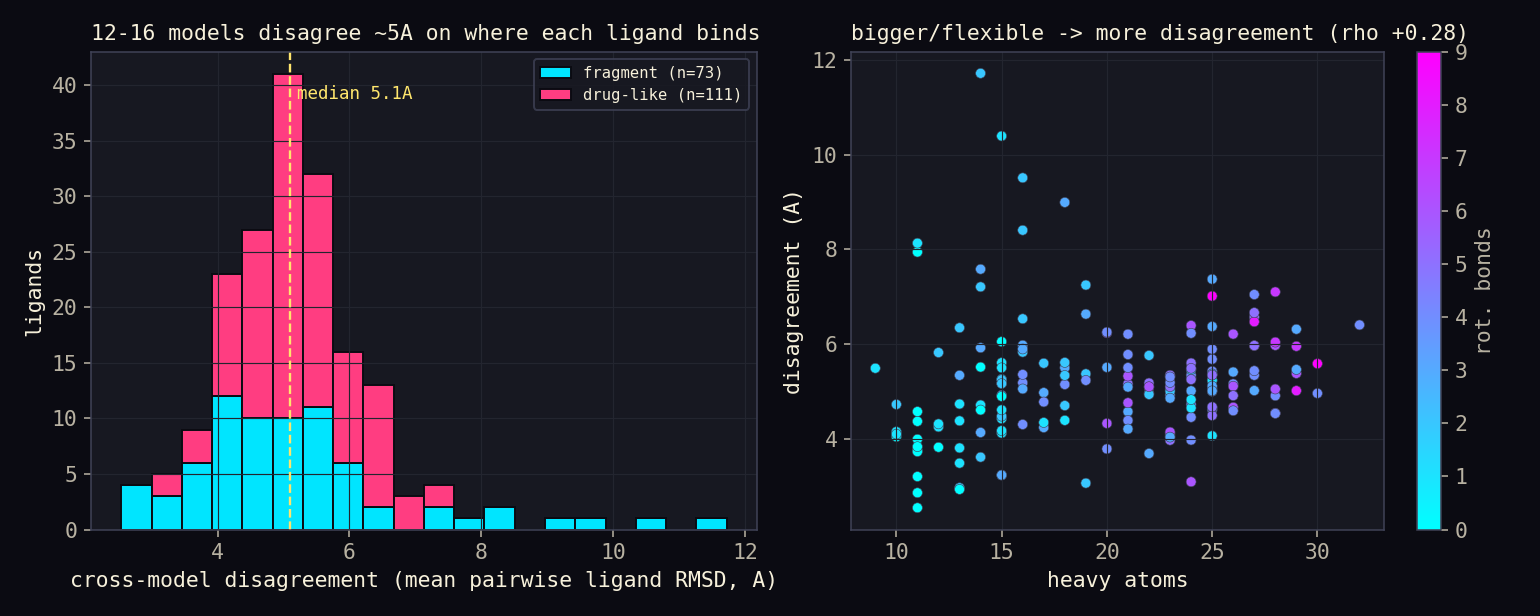
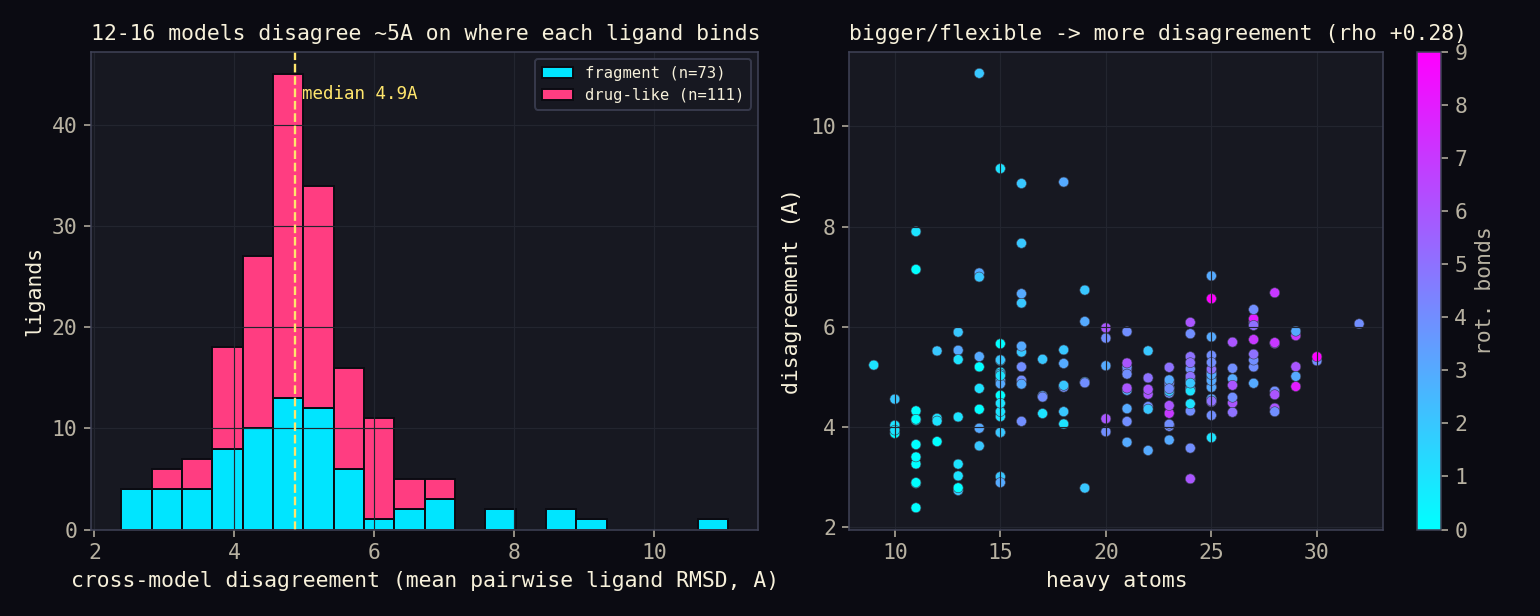
posthoc: fix ligand parsing (protenix/rf3 recovered, minifold dropped, NaN bug); add per-model architecture-clustering finding + consensus!=correctness caveat

diff --git a/docs/posthoc_analysis.html b/docs/posthoc_analysis.html
@@ -626,10 +626,10 @@ analysis uses <b>cross-model geometric consensus</b>; where true poses exist (th
 PXR crystal panel) we measure real RMSD and the selection gap.</p>
 <h3>Three findings up front</h3>
 <p><span class="step-number">1</span> <b>The models fundamentally disagree.</b> Median
-cross-model pose disagreement is <b>5.1 A</b> (mean pairwise
+cross-model pose disagreement is <b>4.9 A</b> (mean pairwise
 ligand RMSD across predictors). On most ligands there is no consensus binding mode.</p>
 <p><span class="step-number">2</span> <b>Failure is anchoring ambiguity, not size alone.</b>
-Disagreement scales with size/flexibility (heavy-atom rho +0.28), but the very
+Disagreement scales with size/flexibility (heavy-atom rho +0.26), but the very
 worst cases are <b>small fragments with no directional anchor</b> - fragments split bimodally
 into best- and worst-agreed. Rigid H-bond anchors (aminothiazole, benzimidazole) sharpen
 agreement; floppy multi-donor groups (urea, amide) blur it.</p>
@@ -643,16 +643,27 @@ is broken.</p>
 <h2>12-16 models, ~5A apart</h2>
 <p>For each ligand we superpose every predictor's protein CA onto a common frame and measure
 pairwise ligand RMSD. The median across 184 ligands is
-<b>5.10 A</b> (IQR 4.47-5.60).
-Fragments (4.92 A) and drug-like analogs (5.16 A) disagree <i>almost equally</i> -
+<b>4.87 A</b> (IQR 4.30-5.36).
+Fragments (4.79 A) and drug-like analogs (4.88 A) disagree <i>almost equally</i> -
 the tidy "analogs are harder" story does not hold; disagreement tracks size and anchoring, not
 fragment-vs-analog class.</p>
 <figure><img src="figures/posthoc_disagreement.png" alt="cross-model disagreement"></figure>
 <h3>The 12 most-disagreed ligands (where every model diverges)</h3>
-<table><thead><tr><th>ligand</th><th>pop</th><th>series</th><th>MW</th><th>rotB</th><th>disagree A</th><th>consensus</th><th>medoid</th></tr></thead><tbody><tr><td>x00543-1</td><td>fragment</td><td>FR127</td><td>215</td><td>2</td><td>11.7</td><td>0.29</td><td>esm2_none</td></tr><tr><td>x01382-1</td><td>fragment</td><td>FR90</td><td>225</td><td>1</td><td>10.4</td><td>0.15</td><td>esm2_none</td></tr><tr><td>x01358-1</td><td>fragment</td><td>FR92</td><td>212</td><td>2</td><td>9.5</td><td>0.15</td><td>esm2_none</td></tr><tr><td>x01438-1</td><td>fragment</td><td>FR86</td><td>243</td><td>3</td><td>9.0</td><td>0.15</td><td>esmfold2fast</td></tr><tr><td>x01334-1</td><td>fragment</td><td>FR93</td><td>213</td><td>2</td><td>8.4</td><td>0.15</td><td>apo</td></tr><tr><td>x01131-1</td><td>fragment</td><td>FR101</td><td>175</td><td>1</td><td>8.1</td><td>0.14</td><td>boltz1x</td></tr><tr><td>x01126-1</td><td>fragment</td><td>FR79</td><td>164</td><td>0</td><td>7.9</td><td>0.21</td><td>of3ft</td></tr><tr><td>x01415-1</td><td>fragment</td><td>FR87</td><td>217</td><td>3</td><td>7.6</td><td>0.08</td><td>apo</td></tr><tr><td>x02877-1</td><td>drug_like</td><td>DL17</td><td>342</td><td>3</td><td>7.4</td><td>0.14</td><td>apo</td></tr><tr><td>x01234-1</td><td>drug_like</td><td>DL74</td><td>253</td><td>2</td><td>7.2</td><td>0.15</td><td>esm2_shallow</td></tr><tr><td>x01502-1</td><td>fragment</td><td>FR84</td><td>204</td><td>2</td><td>7.2</td><td>0.15</td><td>of3ft</td></tr><tr><td>x03123-1</td><td>drug_like</td><td>DL42</td><td>402</td><td>7</td><td>7.1</td><td>0.21</td><td>esm2_none</td></tr></tbody></table>
+<table><thead><tr><th>ligand</th><th>pop</th><th>series</th><th>MW</th><th>rotB</th><th>disagree A</th><th>consensus</th><th>medoid</th></tr></thead><tbody><tr><td>x00543-1</td><td>fragment</td><td>FR127</td><td>215</td><td>2</td><td>11.1</td><td>0.31</td><td>esm2_none</td></tr><tr><td>x01382-1</td><td>fragment</td><td>FR90</td><td>225</td><td>1</td><td>9.2</td><td>0.25</td><td>esm2_none</td></tr><tr><td>x01438-1</td><td>fragment</td><td>FR86</td><td>243</td><td>3</td><td>8.9</td><td>0.17</td><td>esm2_full</td></tr><tr><td>x01358-1</td><td>fragment</td><td>FR92</td><td>212</td><td>2</td><td>8.9</td><td>0.17</td><td>rf3</td></tr><tr><td>x01131-1</td><td>fragment</td><td>FR101</td><td>175</td><td>1</td><td>7.9</td><td>0.15</td><td>boltz1x</td></tr><tr><td>x01334-1</td><td>fragment</td><td>FR93</td><td>213</td><td>2</td><td>7.7</td><td>0.25</td><td>apo</td></tr><tr><td>x01126-1</td><td>fragment</td><td>FR79</td><td>164</td><td>0</td><td>7.1</td><td>0.39</td><td>of3ft</td></tr><tr><td>x01415-1</td><td>fragment</td><td>FR87</td><td>217</td><td>3</td><td>7.1</td><td>0.08</td><td>boltz1x</td></tr><tr><td>x02877-1</td><td>drug_like</td><td>DL17</td><td>342</td><td>3</td><td>7.0</td><td>0.23</td><td>esm2_none</td></tr><tr><td>x01502-1</td><td>fragment</td><td>FR84</td><td>204</td><td>2</td><td>7.0</td><td>0.17</td><td>of3ft</td></tr><tr><td>x01234-1</td><td>drug_like</td><td>DL74</td><td>253</td><td>2</td><td>6.7</td><td>0.25</td><td>esm2_shallow</td></tr><tr><td>x03123-1</td><td>drug_like</td><td>DL42</td><td>402</td><td>7</td><td>6.7</td><td>0.23</td><td>esm2_none</td></tr></tbody></table>
 <p class="muted">Note the worst offenders are mostly small fragments (MW 160-250) - too few
 contacts to pin a pose. The consensus "medoid" model is rarely Boltz; it is usually an
 ESM2 / OpenFold3 / apo-template prediction.</p>
+<h3>Models cluster by architecture, not by truth</h3>
+<figure><img src="figures/posthoc_permodel.png" alt="per-model divergence"></figure>
+<p>Ranking predictors by median distance from the cross-model consensus exposes a trap:
+the ESM2 family, OpenFold3 and apo-template predictions <b>agree with each other</b> and
+form the "consensus", while <b>Boltz and DeCAF sit ~8.5 A away as systematic outliers</b>.
+But agreement here reflects shared architecture/training, <b>not correctness</b> - and no
+ground truth exists for the 184 to arbitrate. Our winning ensemble was built on the
+Boltz/OF3/AF3 side; this analysis shows that choice was, structurally, a <i>minority</i>
+opinion vs the larger ESM-family cluster. Whether the majority or the minority was right is
+exactly what the challenge could not tell us, and what a proper GT panel (below) is being
+built to answer.</p>
 </section>
 
 <section id="selection-wall"><span class="kicker">finding 3 // the ceiling</span>
@@ -689,8 +700,8 @@ clean signal: groups that make a <b>rigid, directional interaction</b> reduce di
 while <b>flexible, multi-rotamer donors</b> increase it.</p>
 <figure><img src="figures/posthoc_anchoring.png" alt="anchoring functional groups"></figure>
 <p>Correlations of disagreement with descriptors (Spearman rho):
-heavy +0.28, TPSA +0.27, MW +0.26,
-rotB +0.25, nAromatic -0.04, cLogP +0.06.
+heavy +0.26, TPSA +0.25, MW +0.25,
+rotB +0.26, nAromatic -0.03, cLogP +0.07.
 Polarity and flexibility drive divergence; aromatic ring count and lipophilicity do not.</p>
 </section>
 
@@ -701,8 +712,8 @@ medoid model, confidence, and properties - is written to
 <code>data/processed/posthoc/master_184.csv</code> (summary) and
 <code>master_184_long.parquet</code> (per-model deviations). Live counts:
 <span class="pill">184 ligands analyzed</span>
-<span class="pill">40 with majority consensus</span>
-<span class="pill">31 pathological (&gt;6A)</span></p>
+<span class="pill">57 with majority consensus</span>
+<span class="pill">22 pathological (&gt;6A)</span></p>
 </section>
 
 <section id="rebuild"><span class="kicker">in progress // methods we skipped</span>

diff --git a/scripts/posthoc/build_master_table.py b/scripts/posthoc/build_master_table.py
@@ -36,7 +36,6 @@ MODELS = {
     "esm2_none": "esm2_none_best",
     "boltz1x": "openprotein_boltz1x_best",
     "esmfold2fast": "openprotein_esmfold2fast_best",
-    "minifold": "openprotein_minifold_best",
     "rf3": "openprotein_rf3_best",
     "apo": "apo_best",
     # partial-coverage models (included where present)
@@ -74,13 +73,48 @@ def elem_matched_rmsd(xyzA, elemsA, xyzB, elemsB):
     return float(np.sqrt(np.mean(sq)))
 
 
+_SKIP_HET = {"HOH", "WAT", "NA", "CL", "K", "MG", "ZN", "CA", "SO4", "PO4", "GOL", "EDO", "ACT"}
+
+
+def parse_pose_robust(path):
+    """Robust to ligand convention (LIG/chain B, l01/chain X, L:0/chain X, ...).
+    CA from ATOM CA lines; ligand = any non-water/ion HETATM."""
+    ca, ca_res = {}, {}
+    lig_xyz, lig_elems, lig_bfac = [], [], []
+    for ln in open(path):
+        rec = ln[:6].strip()
+        if rec == "ATOM" and ln[12:16].strip() == "CA":
+            try:
+                rs = int(ln[22:26]); xyz = (float(ln[30:38]), float(ln[38:46]), float(ln[46:54]))
+                ca[rs] = xyz; ca_res[rs] = ln[17:20].strip()
+            except Exception:
+                pass
+        elif rec == "HETATM":
+            resn = ln[17:20].strip().upper()
+            if resn in _SKIP_HET:
+                continue
+            try:
+                xyz = (float(ln[30:38]), float(ln[38:46]), float(ln[46:54]))
+                el = ln[76:78].strip() or "".join(c for c in ln[12:16].strip() if c.isalpha())[:1]
+                bf = float(ln[60:66]) if ln[60:66].strip() else np.nan
+                lig_xyz.append(xyz); lig_elems.append(el.capitalize()); lig_bfac.append(bf)
+            except Exception:
+                pass
+    import numpy as _np
+    return {"ca": {k: _np.array(v) for k, v in ca.items()}, "ca_res": ca_res,
+            "lig_xyz": _np.array(lig_xyz), "lig_elems": lig_elems,
+            "lig_bfac": _np.array(lig_bfac) if lig_bfac else _np.array([_np.nan])}
+
+
 def load_poses(sid):
     poses = {}
     for m, d in MODELS.items():
         f = os.path.join(BASE, d, f"{sid}.pdb")
         if os.path.exists(f) and os.path.getsize(f) > 1000:
             try:
-                poses[m] = pl.parse_pose(f)
+                p = parse_pose_robust(f)
+                if len(p["lig_xyz"]) >= 4 and len(p["ca"]) >= 50:
+                    poses[m] = p
             except Exception:
                 pass
     return poses
@@ -147,10 +181,15 @@ def main():
             "mean_lig_plddt": round(np.mean([frame[m][2] for m in models]), 1),
         })
         for m in models:
+            if m == medoid:
+                rtm = 0.0
+            elif not np.isnan(pw[(m, medoid)]):
+                rtm = round(pw[(m, medoid)], 3)
+            else:
+                rtm = np.nan  # failed comparison -> NaN, not 0 (bugfix)
             long_rows.append({
-                "structure": sid, "model": m,
-                "rmsd_to_medoid": round(pw[(m, medoid)], 3) if m != medoid and not np.isnan(pw[(m, medoid)]) else 0.0,
-                "lig_plddt": round(frame[m][2], 1),
+                "structure": sid, "model": m, "rmsd_to_medoid": rtm,
+                "lig_plddt": round(frame[m][2], 1) if not np.isnan(frame[m][2]) else np.nan,
                 "is_medoid": m == medoid,
             })
         if n % 30 == 0:

diff --git a/scripts/posthoc/make_figures.py b/scripts/posthoc/make_figures.py
@@ -106,3 +106,22 @@ ax.set_title("ANCHORING drives agreement: rigid H-bond anchors help, floppy dono
 ax.set_xlim(min(deltas) * 1.5 - 0.2, max(deltas) * 1.5 + 0.3)
 plt.tight_layout(); plt.savefig(f"{OUT}/posthoc_anchoring.png", dpi=140); plt.close()
 print("wrote posthoc_anchoring.png")
+
+# ---------- Fig 4: per-model divergence from consensus (architecture clustering) ----------
+lg = pd.read_parquet("data/processed/posthoc/master_184_long.parquet")
+dev = lg.dropna(subset=["rmsd_to_medoid"]).groupby("model")["rmsd_to_medoid"].median().sort_values()
+fig, ax = plt.subplots(figsize=(8.5, 4.6))
+yb = np.arange(len(dev))[::-1]
+# color: ESM/consensus cluster cyan, outliers pink
+cols = [PINK if v > 4 else (YELLOW if v > 2.4 else CYAN) for v in dev.values]
+ax.barh(yb, dev.values, color=cols, edgecolor=LINE, height=0.66)
+for yi, v in zip(yb, dev.values):
+    ax.text(v + 0.1, yi, f"{v:.1f}A", va="center", color=INK, fontsize=9)
+ax.set_yticks(yb); ax.set_yticklabels(dev.index, fontsize=9.5)
+ax.set_xlabel("median ligand-pose distance from cross-model consensus (A)")
+ax.set_title("Models cluster by ARCHITECTURE, not truth - boltz/decaf are outliers",
+             color=INK, fontsize=11.5, loc="left", pad=10)
+ax.text(0.98, 0.04, "consensus != correctness (no GT for the 184)", transform=ax.transAxes,
+        ha="right", color=MUTED, fontsize=8.5, style="italic")
+plt.tight_layout(); plt.savefig(f"{OUT}/posthoc_permodel.png", dpi=140); plt.close()
+print("wrote posthoc_permodel.png")

diff --git a/scripts/posthoc/build_report.py b/scripts/posthoc/build_report.py
@@ -139,6 +139,17 @@ fragment-vs-analog class.</p>
 <p class="muted">Note the worst offenders are mostly small fragments (MW 160-250) - too few
 contacts to pin a pose. The consensus "medoid" model is rarely Boltz; it is usually an
 ESM2 / OpenFold3 / apo-template prediction.</p>
+<h3>Models cluster by architecture, not by truth</h3>
+<figure><img src="figures/posthoc_permodel.png" alt="per-model divergence"></figure>
+<p>Ranking predictors by median distance from the cross-model consensus exposes a trap:
+the ESM2 family, OpenFold3 and apo-template predictions <b>agree with each other</b> and
+form the "consensus", while <b>Boltz and DeCAF sit ~8.5 A away as systematic outliers</b>.
+But agreement here reflects shared architecture/training, <b>not correctness</b> - and no
+ground truth exists for the 184 to arbitrate. Our winning ensemble was built on the
+Boltz/OF3/AF3 side; this analysis shows that choice was, structurally, a <i>minority</i>
+opinion vs the larger ESM-family cluster. Whether the majority or the minority was right is
+exactly what the challenge could not tell us, and what a proper GT panel (below) is being
+built to answer.</p>
 </section>
 
 <section id="selection-wall">{kicker("finding 3 // the ceiling")}